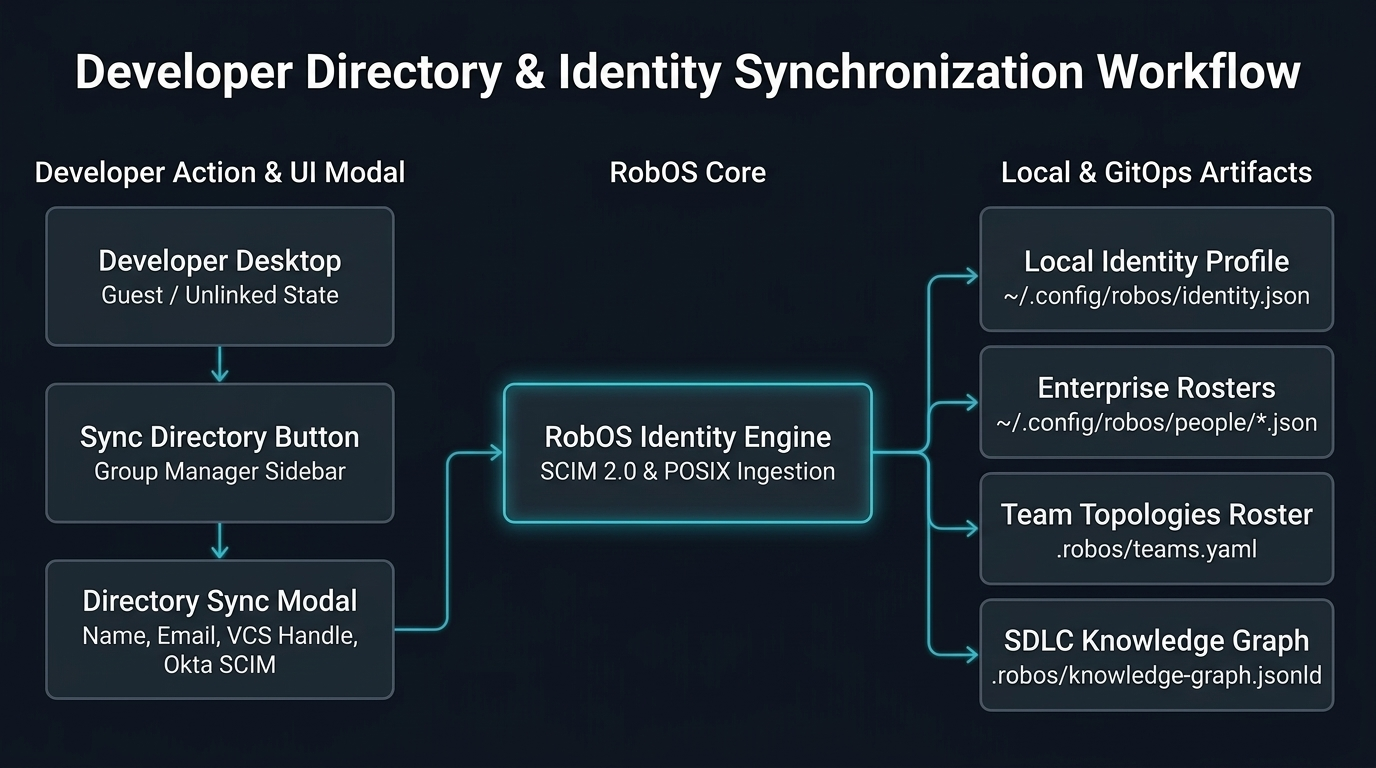
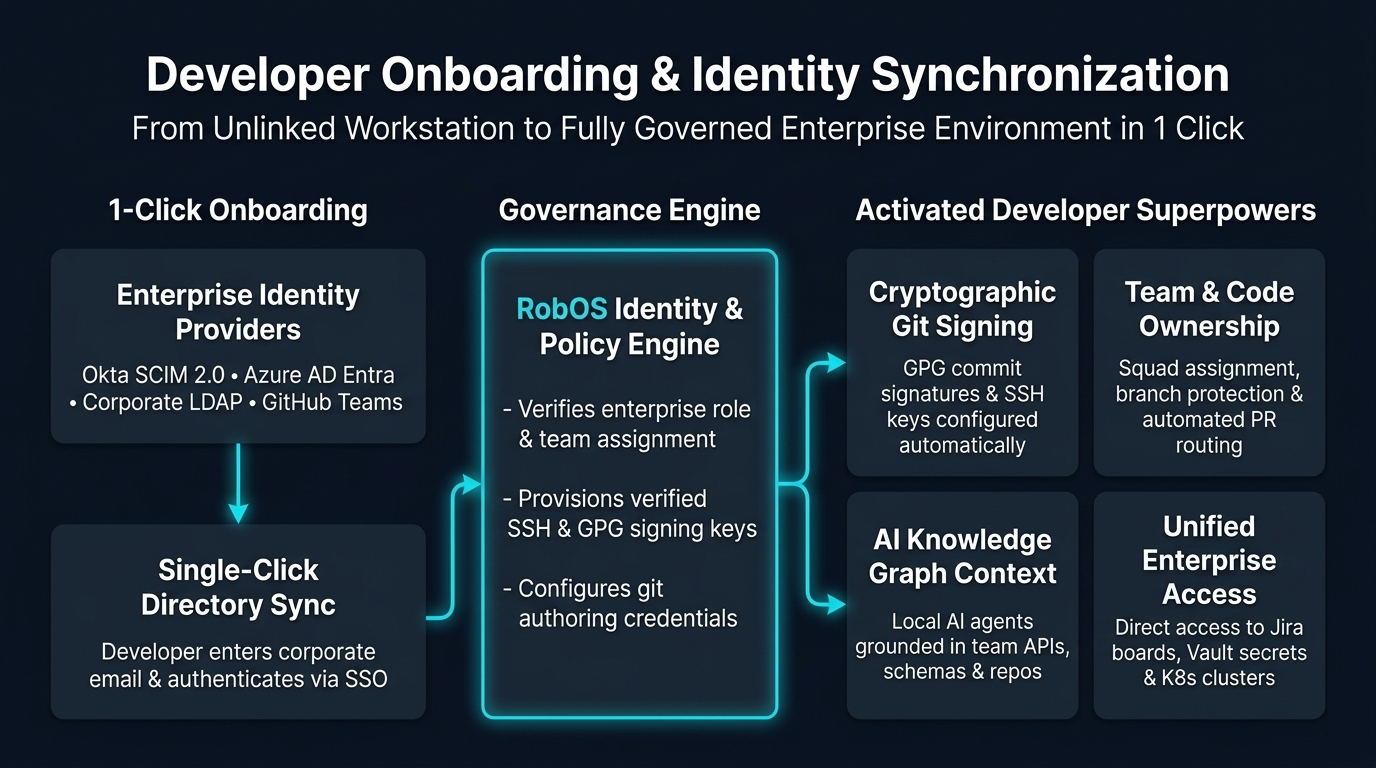
docs: replace file-path flowcharts with high-impact capability diagrams

Changed region(s): [[0.0312, 0.0625, 0.9688, 0.9688]]

diff --git a/docs/new-company-setup.md b/docs/new-company-setup.md
@@ -35,7 +35,7 @@ flowchart TD
     Topo["2. Foundational Team Topologies<br/><i>(Founding Core & Cloud Platform in teams.yaml)</i>"]
     VCS["3. Greenfield VCS Setup<br/><i>(GitHub Org / Gitea + Branch Protection)</i>"]
     AI["4. Central AI Hub & MCP Catalog<br/><i>(Claude, Gemini, OpenAI, system-mcp)</i>"]
-    C4["5. Starter C4 Architecture<br/><i>(Level 1 System Context in knowledge-graph.jsonld)</i>"]
+    C4["5. Starter C4 Architecture<br/><i>(Level 1 System Context in SDLC Knowledge Graph)</i>"]
 
     Init --> Topo --> VCS --> AI --> C4
 ```
@@ -46,17 +46,12 @@ flowchart TD
 
 Starting a greenfield company begins with declaring who you are and defining your company tenant. In **Group Manager** (`packages/group-manager`), founders do this directly through the interactive **Greenfield Company Bootstrap Wizard**:
 
-```mermaid
-flowchart LR
-    Unlinked["Unlinked RobOS Desktop<br/><i>(No Tenant / Guest)</i>"] --> BootBtn["Click '🚀 Bootstrap'"]
-    BootBtn --> Modal["Bootstrap Modal<br/><i>(Company Name, Domain, Admin Name & Email)</i>"]
-    Modal --> Engine["RobOS Greenfield Provisioner"]
-    Engine --> Tenant["Tenant Metadata<br/><code>~/.config/robos/company.json</code>"]
-    Engine --> AdminIdent["Active Admin Identity<br/><code>~/.config/robos/identity.json</code>"]
-    Engine --> AdminProfile["Root Profile<br/><code>~/.config/robos/people/admin.json</code>"]
-    Engine --> TeamsYaml["Foundational Squads<br/><code>.robos/teams.yaml</code>"]
-    Engine --> KGraph["SDLC Knowledge Graph<br/><code>.robos/knowledge-graph.jsonld</code>"]
-```
+<div style="margin: 2rem 0; border: 1px solid #1e293b; border-radius: 12px; overflow: hidden; background: #0b101b; box-shadow: 0 10px 40px rgba(0,0,0,0.6);">
+  <img src="{{ '/assets/images/new-company-bootstrap.jpg' | relative_url }}" alt="Greenfield Startup Bootstrap Workflow" class="robos-zoomable-img" style="display: block; width: 100%; height: auto;" />
+  <div style="padding: 0.75rem 1.25rem; font-size: 0.85rem; color: #94a3b8; border-top: 1px solid #1e293b; background: #0d1424; text-align: center;">
+    <strong>Greenfield Startup Bootstrap Workflow</strong>: How the 5-minute interactive bootstrap activates root cryptographic signing, foundational team topologies, central AI provider hubs, and living C4 starter architecture. <em>(Click image to zoom full screen)</em>
+  </div>
+</div>
 
 ### 1. Interactive Bootstrap Wizard
 1. **Inspect Identity State**: Group Manager displays an unlinked badge (`No Tenant / Unlinked`).

diff --git a/docs/knowledge-graph.md b/docs/knowledge-graph.md
@@ -34,24 +34,12 @@ The Knowledge Graph is a live, machine-readable, plain-text semantic graph that 
 - **Spotify Backstage & C4 Model** for component registries and software architecture topologies.
 - **UNIX Password Store (`pass`) & GPG** for zero-plaintext secret management.
 
-```mermaid
-flowchart TD
-    subgraph KGraph ["Dual-State SDLC Knowledge Graph (.robos/kgraphs/)"]
-        direction TB
-        Core["📦 core-platform<br/>(C4 Topology, Microservices, DBs)"]
-        Org["👥 organization<br/>(Squads, RBAC, Directory Sync)"]
-        Services["🔌 services<br/>(OpenAPI 3.1, gRPC, BDD Features)"]
-        Apps["📱 applications<br/>(Frontends, Desktop, Games, CLI)"]
-        DevOps["☁ devops<br/>(Cloud, CI/CD, Pass Credentials)"]
-        Learning["🎓 learning<br/>(eLearning, Labs, Living Docs)"]
-    end
-
-    HumanArch["🧑💻 Human Lead Architect"] -->|Design & Approve| KGraph
-    KGraph -->|Grounding Context| AgentSwarms["🤖 Autonomous AI Agents"]
-    AgentSwarms -->|Synthesize Code| EphemeralSandboxes["🛡 Ephemeral RAM Workspaces"]
-    EphemeralSandboxes -->|PR Review & Diffs| IDEBridge["💻 IDE Bridges (IntelliJ & VS Code)"]
-    IDEBridge -->|Approve & Merge| LiveDeploy["🚀 Cloud & Kubernetes Deploy"]
-```
+<div style="margin: 2rem 0; border: 1px solid #1e293b; border-radius: 12px; overflow: hidden; background: #0b101b; box-shadow: 0 10px 40px rgba(0,0,0,0.6);">
+  <img src="{{ '/assets/images/kgraph-living-architecture.jpg' | relative_url }}" alt="SDLC Knowledge Graph: Living Architecture Engine" class="robos-zoomable-img" style="display: block; width: 100%; height: auto;" />
+  <div style="padding: 0.75rem 1.25rem; font-size: 0.85rem; color: #94a3b8; border-top: 1px solid #1e293b; background: #0d1424; text-align: center;">
+    <strong>Living Architecture Engine</strong>: How modular package stores and multi-repo composition power the dual-state engine to deliver instant blast radius analysis, grounded AI coding agents, automated living docs, and verified code ownership. <em>(Click image to zoom full screen)</em>
+  </div>
+</div>
 
 ---
 

diff --git a/docs/existing-company-setup.md b/docs/existing-company-setup.md
@@ -40,7 +40,7 @@ When joining an existing enterprise using RobOS, developers do not need to wait 
 <div style="margin: 2rem 0; border: 1px solid #1e293b; border-radius: 12px; overflow: hidden; background: #0b101b; box-shadow: 0 10px 40px rgba(0,0,0,0.6);">
   <img src="{{ '/assets/images/directory-sync-workflow.jpg' | relative_url }}" alt="Developer Directory & Identity Synchronization Workflow" class="robos-zoomable-img" style="display: block; width: 100%; height: auto;" />
   <div style="padding: 0.75rem 1.25rem; font-size: 0.85rem; color: #94a3b8; border-top: 1px solid #1e293b; background: #0d1424; text-align: center;">
-    <strong>Developer Directory & Identity Synchronization Workflow</strong>: Step-by-step onboarding flow from unlinked developer desktop to synchronized local identity, enterprise rosters, Team Topologies, and SDLC Knowledge Graph. <em>(Click image to zoom full screen)</em>
+    <strong>Developer Onboarding & Identity Synchronization</strong>: How single-click enterprise directory sync (Okta, Azure AD, LDAP) unlocks cryptographic Git commit signing, squad code ownership, grounded AI agent context, and unified enterprise tool access. <em>(Click image to zoom full screen)</em>
   </div>
 </div>
 
